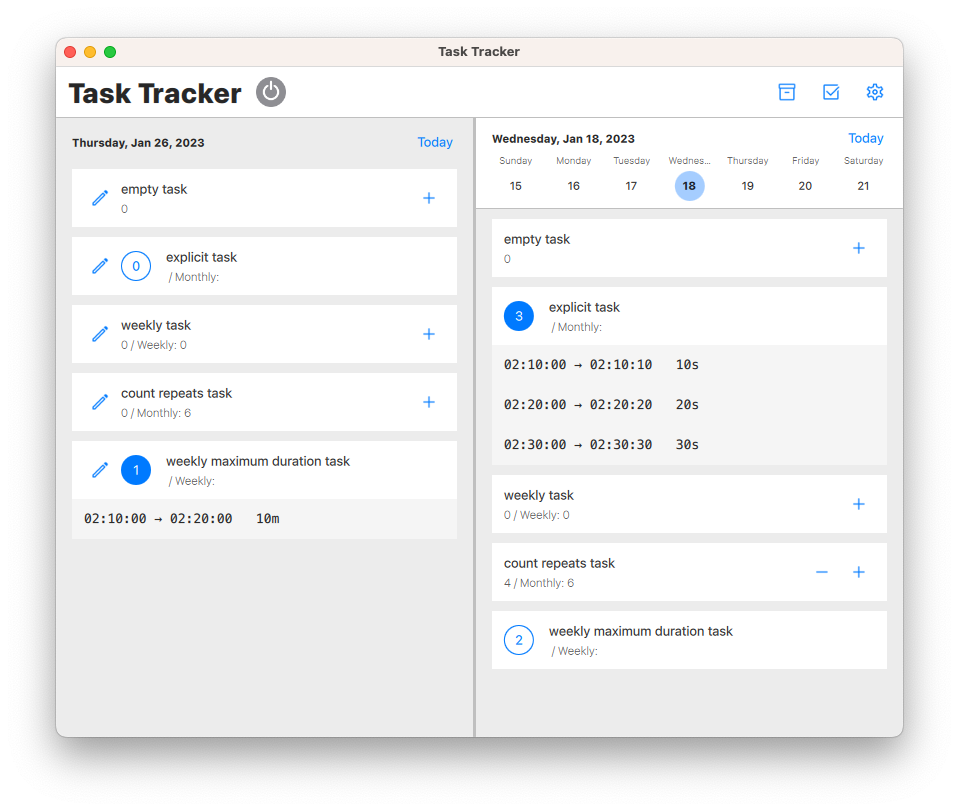
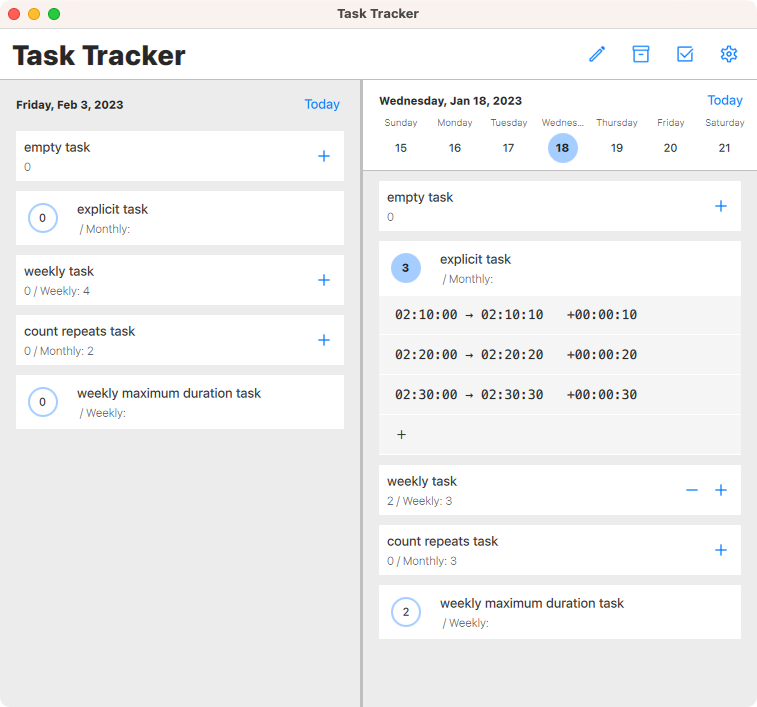
updated screenshots

diff --git a/README.md b/README.md
@@ -13,6 +13,8 @@ Simple task tracker.
 
 <img src="docs/main_wide.png" width=520>
 
+<img src="docs/main_wide_edit_mode.png" width=520>
+
 <img src="docs/main_narrow_tasks.png" width=260>
 <img src="docs/main_narrow_calendar.png" width=260>
 <img src="docs/task_editor.png" width=260>
